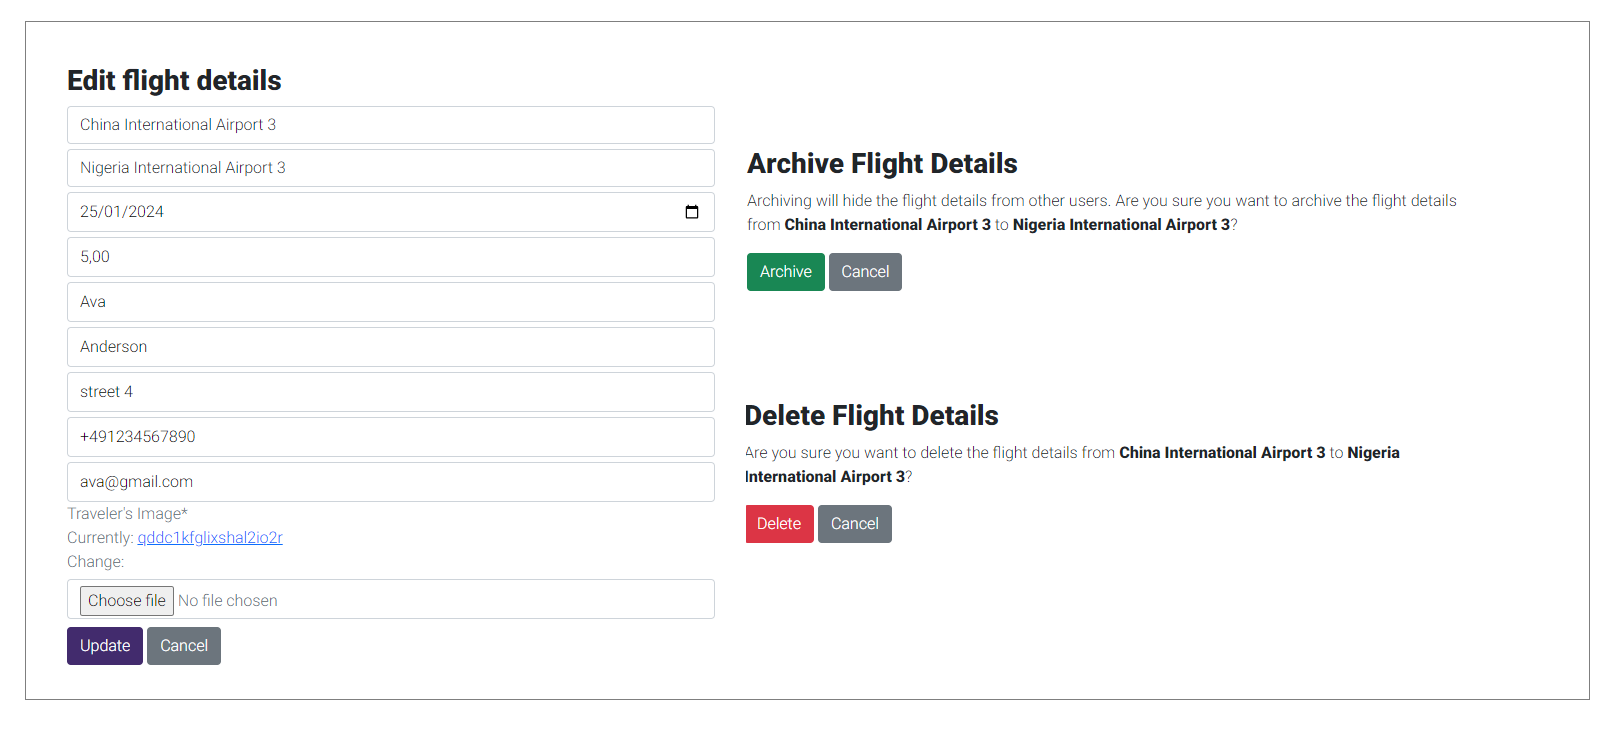
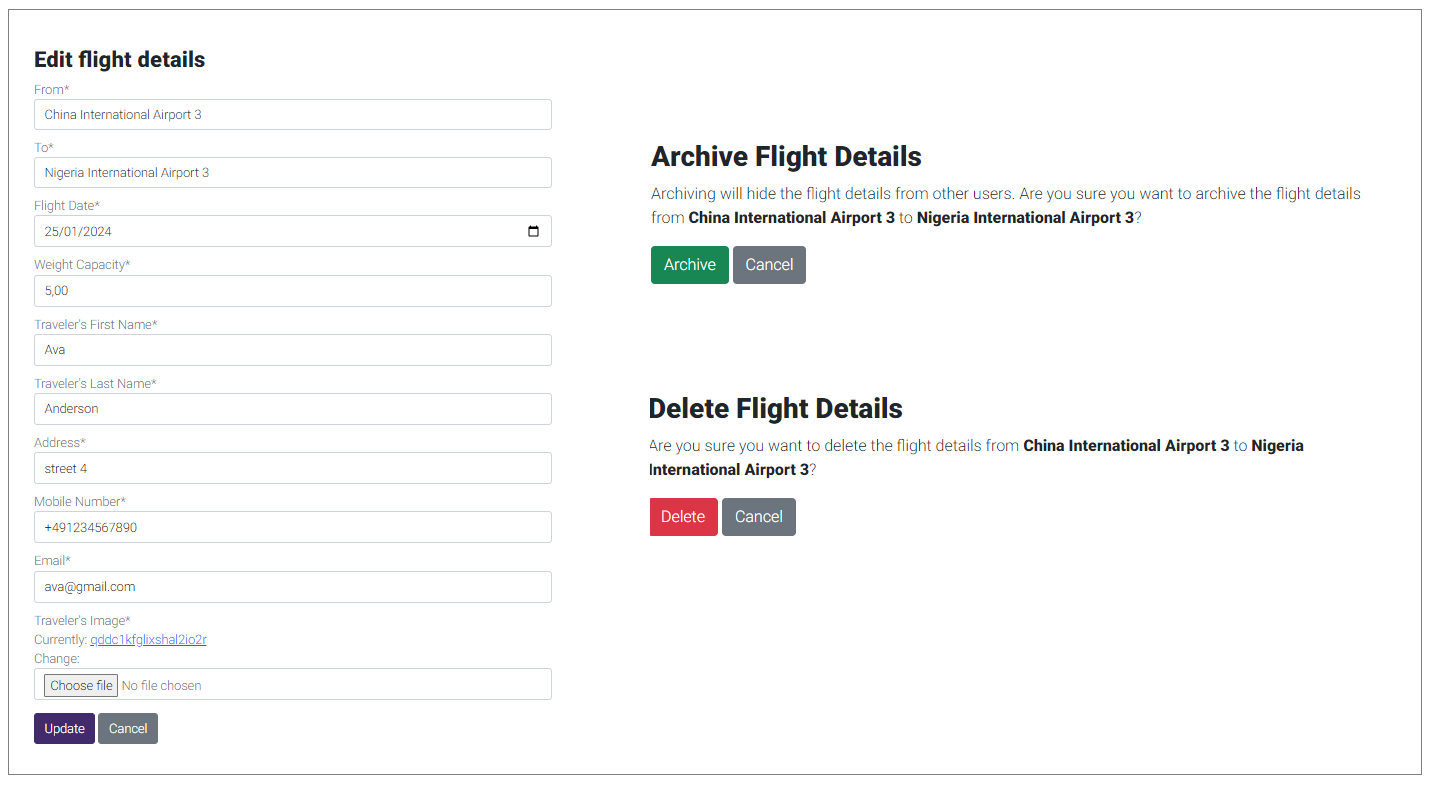
Doc: add html and css validation

diff --git a/templates/base.html b/templates/base.html
@@ -1,16 +1,17 @@
 {% load static %}
 
 <!DOCTYPE html>
-<html class="h-100">
+<html class="h-100" lang="en">
 
 <head>
     <meta charset="UTF-8">
     <meta name="viewport" content="width=device-width, initial-scale=1.0">
+    <meta name="description" content="MIGMIGSHIPMENT: FASTEST WAY TO SHIP YOUR SMALL PARCEL">
+    <meta name="keywords" content="flight, travel, parcel, delivery,">
     <title>
         {% block title %}
         {% endblock %}
     </title>
-    
     <link rel="preconnect" href="https://fonts.gstatic.com" crossorigin>
     <link href="https://fonts.googleapis.com/css2?family=Caveat:wght@700&family=Lato:ital,wght@0,400;0,700;1,400&family=Roboto:wght@300;900&display=swap" rel="stylesheet">
     <link rel="preconnect" href="https://fonts.googleapis.com" crossorigin>
@@ -25,7 +26,7 @@
 <body class="d-flex flex-column h-100 main-bg">
     <!-- Navigation -->
     <nav class="navbar navbar-expand-md fixed-top p-3">
-            <img src="{% static 'images/migmig.webp' %}" alt="migmig" class="migmig mr-2" style="height: 50px; width: 60px;"/>
+            <img src="{% static 'images/migmig.webp' %}" alt="migmig" class="migmig mr-2" style="height: 50px; width: 60px;">
             <a class="navbar-brand" href="/"><strong>MigMigShipment</strong></a>
 
             <button class="navbar-toggler navbar-light justify-content-end" type="button" data-toggle="collapse"
@@ -114,9 +115,9 @@
                 src="{% static 'images/woman.webp' %}"
                 alt="Maryam Tehrani"
                 class="rounded-circle mb-2"
-                height="100px"
-                width="100px"
-                />
+                height="100"
+                width="100"
+                >
                 <p>
                 "This app revolutionized the way I connect with people and get
                 things done. It's a game-changer!"
@@ -130,9 +131,9 @@
                 src="{% static 'images/man.webp' %}"
                 alt="Rechard Bose"
                 class="rounded-circle mb-2"
-                height="100px"
-                width="100px"
-                />
+                height="100"
+                width="100"
+                >
         
                 <p>
                 "I never knew finding someone to deliver my packages could be so
@@ -147,9 +148,9 @@
                 src="{% static 'images/girl.webp' %}"
                 alt="Fatima Al Saud"
                 class="rounded-circle mb-2"
-                height="100px"
-                width="100px"
-                />
+                height="100"
+                width="100"
+                >
                 <p>
                 "Finally, an app that bridges the gap between travelers and those
                 in need. It's like a matchmaking service for delivery requests!"

diff --git a/templates/index.html b/templates/index.html
@@ -6,24 +6,22 @@
 
 <!-- Banner which is shown for users who are not logged in -->
 {% if not user.is_authenticated %}
-<div class="container-fluid">
-    <section class="banner-container">
-        <div class="opaque-overlay">&nbsp;</div>
-            <div class="jumbotron m-4">
-                <h1 class="text-uppercase">
-                <strong>the fastest way to ship your small parcel</strong>
-                </h1>
-                <p>
-                <strong
-                    >We Connect those who have urgent parcel with travelers.</strong
-                >
-                </p>
-                <a class="btn btn-lg btn-primary" href="{% url 'account_signup' %}" aria-label="Button join us">
-                <strong>Join Us!</strong>
-                </a>
-            </div>
+<div class="banner-container">
+    <div class="opaque-overlay">&nbsp;</div>
+        <div class="jumbotron m-4">
+            <h1 class="text-uppercase">
+            <strong>the fastest way to ship your small parcel</strong>
+            </h1>
+            <p>
+            <strong
+                >We Connect those who have urgent parcel with travelers.</strong
+            >
+            </p>
+            <a class="btn btn-lg btn-primary" href="{% url 'account_signup' %}" aria-label="Button join us">
+            <strong>Join Us!</strong>
+            </a>
         </div>
-    </section>
+    
 </div>
 {% endif %}
 
@@ -48,9 +46,7 @@
                 <button type="submit" class="btn btn-primary col-12 ">Find Flights</button>
             </div>
         </form>
-        
     </div>
-    
 </div>
 
         
@@ -65,8 +61,8 @@
                 <div class="row pic-name-date">
                     <div class="col-12 col-sm-3">
                         <img src="{% static 'images/default-profile-pic.jpeg' %}" class="rounded-circle"
-                    height="50px"
-                    width="50px" alt="traveler">
+                    height="50"
+                    width="50" alt="traveler">
                     </div>
                     <div class="name-postdate col-12 col-sm-9">
                         <h5>{{ flight_details.traveler }}</h5>
@@ -99,7 +95,7 @@
     <div class="row">
         {% endif %}
         {% endfor %}
-    <div/>
+    </div>
     {% else %}
     <!-- When no flights match user search -->
     <div>

diff --git a/templates/my_flight.html b/templates/my_flight.html
@@ -16,8 +16,8 @@
                     <div class="row pic-name-date">
                         <div class="col-12 col-sm-3">
                             <img src="{{ flight_details.traveler_image.url }}" class="rounded-circle"
-                        height="50px"
-                        width="50px" alt="traveler image">
+                        height="50"
+                        width="50" alt="traveler image">
                         </div>
                         <div class="name-postdate col-12 col-sm-9">
                             {% if flight_details.status == 0 %}
@@ -78,7 +78,7 @@
         {% else %}
         <p>You have not posted any flight yet!</p>
         {% endif %}
-        <div/>
+        </div>
     </div>
 </div>
 

diff --git a/static/css/style.css b/static/css/style.css
@@ -327,12 +327,11 @@ div.container-fluid {
 /* style for add flight template ----------------------------------------------- */
 
 .form-control {
-    margin-top: 5px;
+   margin-bottom: 10px;
 }
 
 input {
     width: 100%;
-    margin-top: 5px;
     border: 1px solid #ced4da;
     border-radius: 0.25rem;
     font-size: 1rem;
@@ -342,6 +341,14 @@ input {
     padding: 0.375rem 0.75rem;
 }
 
+.dateinput, .numberinput, .textinput {
+    margin-bottom: 10px;
+}
+.control-label requiredField{
+    display: inline-block;
+    font-size: medium;
+    margin-left: 5px;
+}
 #id_remember.checkboxinput {
     width: auto;
     height: auto;

diff --git a/templates/edit_flight.html b/templates/edit_flight.html
@@ -12,7 +12,7 @@
             <form method="POST" class="form text-muted" action="{% url 'edit_flight' flight_details.slug %}" enctype="multipart/form-data">
                 {% csrf_token %}
                 {{ form | crispy }}
-                <div class="mb-4">
+                <div class="mb-4 mt-2">
                     <button type="submit" class="btn btn-primary">Update</button>
                     <a href="{% url 'my_flights' %}" class="btn btn-secondary my-2" aria-label="Button cancel">Cancel</a>
                 </div>

diff --git a/templates/add_flight.html b/templates/add_flight.html
@@ -14,7 +14,7 @@
             <form id="myForm" method="POST" action="{% url 'add_flight' %}" class="form text-muted" enctype="multipart/form-data">
                 {% csrf_token %}
                 {{ form | crispy }}
-                <div class="mb-4">
+                <div class="mb-4 mt-2">
                     <button type="submit" class="btn btn-primary">Submit</button>
                     <a href="{% url 'home' %}" class="btn btn-secondary my-2" aria-label="Button cancel">Cancel</a>
                 </div>

diff --git a/templates/404.html b/templates/404.html
@@ -6,7 +6,7 @@
 <div class="container">
     <div class="row mt-5">
         <div class="col-md-8 mt-3 offset-md-2">
-            <h3><strong>Page Not Fount!</strong></h3>
+            <h3><strong>Page Not Found!</strong></h3>
             <p>Due to a technical reason, we are not able to proceed to the requested page.</p> 
             
             <a href="{% url 'home' %}" class="btn btn-primary" aria-label="Button back to home page">Back Home</a>

diff --git a/templates/account/signup.html b/templates/account/signup.html
@@ -1,7 +1,7 @@
 {% extends "base.html" %}
 {% load crispy_forms_tags %}
 {% load i18n %}
-{% block head_title %}{% trans "Signup" %}{% endblock %}
+{% block title %}Signup{% endblock %}
 
 {% block content %}
 <!-- Sign up form -->

diff --git a/templates/account/login.html b/templates/account/login.html
@@ -1,7 +1,7 @@
 {% extends "base.html" %}
 {% load crispy_forms_tags %}
 {% load i18n %}
-{% block head_title %}{% trans "Log in" %}{% endblock %}
+{% block title %}Login{% endblock %}
 
 {% block content %}
 <!-- Log in form -->

diff --git a/templates/account/logout.html b/templates/account/logout.html
@@ -1,6 +1,6 @@
 {% extends "base.html" %}
 {% load i18n %}
-{% block head_title %}{% trans "Log Out" %}{% endblock %}
+{% block title %}Log Out{% endblock %}
 
 {% block content %}
 <!-- Log out confirmation -->

diff --git a/migmig/forms.py b/migmig/forms.py
@@ -36,12 +36,12 @@ class AddFlightForm(forms.ModelForm):
 
 
     origin = forms.ChoiceField(
-        choices=CHOICES_ORIGIN, label='', 
+        choices=CHOICES_ORIGIN, label='From', 
         widget=forms.Select(attrs={'class': 'form-control'})
         )
     destination = forms.ChoiceField(
         choices=CHOICES_DESTINATION, 
-        label='', widget=forms.Select(attrs={'class': 'form-control'})
+        label='To', widget=forms.Select(attrs={'class': 'form-control'})
         )
     
 
@@ -62,26 +62,24 @@ class AddFlightForm(forms.ModelForm):
             
         ]
         labels = {
-            'fname': '',  
-            'lname': '',
-            'address': '',
-            'mobile_number': '',
-            'email': '',
+            'fname': "Traveler's First Name",  
+            'lname': "Traveler's Last Name",
+            'address': 'Address',
+            'mobile_number': 'Mobile Number',
+            'email': 'Email',
             'traveler_image': "Traveler's Image",
-            'origin': '',
-            'destination': '',
-            'flight_date': '',
-            'weight_capacity': '',
+            'flight_date': 'Flight Date',
+            'weight_capacity': 'Weight Capacity',
         }
         widgets = {
-            'fname': forms.TextInput(attrs={'placeholder': "Traveler First Name"}),
-            'lname': forms.TextInput(attrs={'placeholder': "Traveler Last Name"}),
+            'fname': forms.TextInput(attrs={'placeholder': "First Name"}),
+            'lname': forms.TextInput(attrs={'placeholder': "Last Name"}),
             'address': forms.TextInput(attrs={'placeholder': 'Address'}),
             'mobile_number': forms.TextInput(attrs={'placeholder': 'Mobile Number'}),
             'email': forms.TextInput(attrs={'placeholder': 'Email'}),
             'origin': forms.TextInput(),
             'destination': forms.TextInput(),
-            'flight_date': forms.DateInput(attrs={'type': 'date', 'placeholder': 'Flight Date' }),
+            'flight_date': forms.DateInput(attrs={'type': 'date' }),
             'weight_capacity': forms.NumberInput(attrs={'placeholder': 'Weight Capacity (kg)'}),
         }
 

diff --git a/pp4/settings.py b/pp4/settings.py
@@ -31,7 +31,7 @@ TEMPLATES_DIR = os.path.join(BASE_DIR, 'templates')
 SECRET_KEY = os.environ.get('SECRET_KEY')
 
 # SECURITY WARNING: don't run with debug turned on in production!
-DEBUG = False
+DEBUG = True
 
 ALLOWED_HOSTS = ['migmig-bcca17837059.herokuapp.com','8000-strasse34-pp4migmig-mdovg4ckyiy.ws-eu105.gitpod.io']
 
